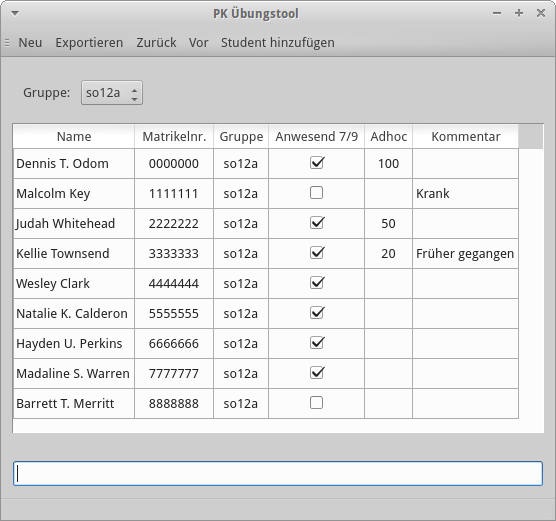
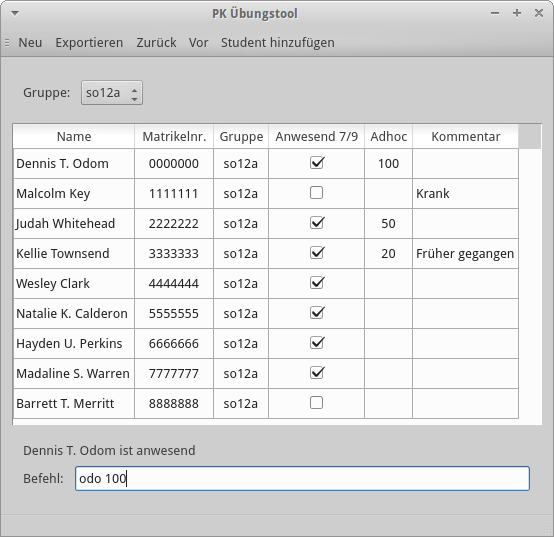
Add Command-Label

diff --git a/mainwindow.py b/mainwindow.py
@@ -39,13 +39,21 @@ class Ui_MainWindow(object):
         self.table_widget.setRowCount(0)
         self.table_widget.verticalHeader().setVisible(False)
         self.verticalLayout.addWidget(self.table_widget)
+        self.gridLayout = QtWidgets.QGridLayout()
+        self.gridLayout.setContentsMargins(11, 11, 11, 11)
+        self.gridLayout.setSpacing(6)
+        self.gridLayout.setObjectName("gridLayout")
+        self.console = QtWidgets.QLineEdit(self.centralWidget)
+        self.console.setObjectName("console")
+        self.gridLayout.addWidget(self.console, 1, 1, 1, 1)
+        self.label_2 = QtWidgets.QLabel(self.centralWidget)
+        self.label_2.setObjectName("label_2")
+        self.gridLayout.addWidget(self.label_2, 1, 0, 1, 1)
         self.console_output = QtWidgets.QLabel(self.centralWidget)
         self.console_output.setText("")
         self.console_output.setObjectName("console_output")
-        self.verticalLayout.addWidget(self.console_output)
-        self.console = QtWidgets.QLineEdit(self.centralWidget)
-        self.console.setObjectName("console")
-        self.verticalLayout.addWidget(self.console)
+        self.gridLayout.addWidget(self.console_output, 0, 0, 1, 2)
+        self.verticalLayout.addLayout(self.gridLayout)
         MainWindow.setCentralWidget(self.centralWidget)
         self.menuBar = QtWidgets.QMenuBar(MainWindow)
         self.menuBar.setGeometry(QtCore.QRect(0, 0, 734, 27))
@@ -80,6 +88,7 @@ class Ui_MainWindow(object):
         _translate = QtCore.QCoreApplication.translate
         MainWindow.setWindowTitle(_translate("MainWindow", "PK Übungstool"))
         self.label.setText(_translate("MainWindow", "Gruppe: "))
+        self.label_2.setText(_translate("MainWindow", "Befehl: "))
         self.toolBar.setWindowTitle(_translate("MainWindow", "toolBar"))
         self.action_export.setText(_translate("MainWindow", "Exportieren"))
         self.action_new.setText(_translate("MainWindow", "Neu"))
